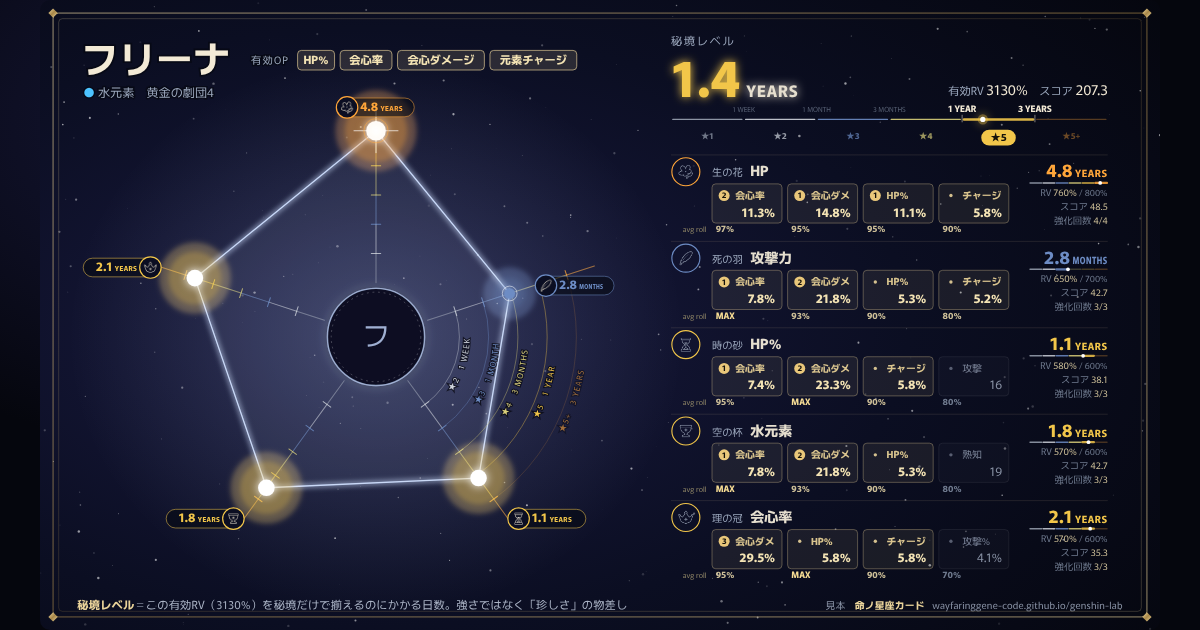
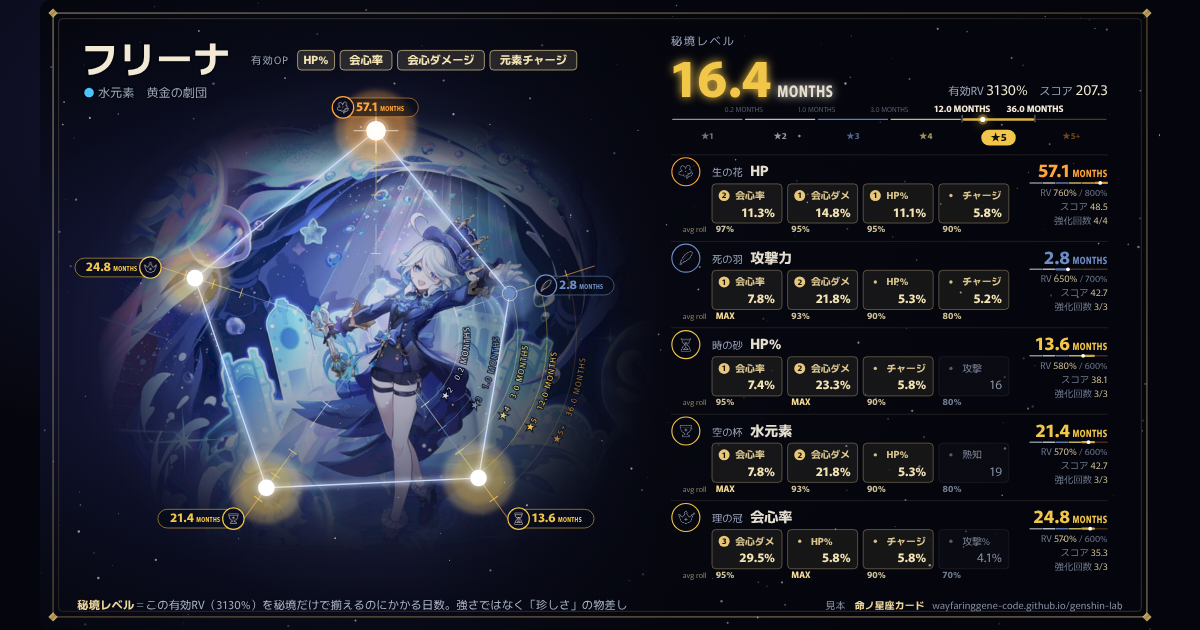
命ノ星座カード v2.3：聖遺物のページ・育成候補・アイコンと立ち絵・MONTHS 表記。OGP 画像を作り直し、次のスレッド（ダメージの見積もり）の手順を ROADMAP 2.8 に
Claude-Session: https://claude.ai/code/session_012GgQhebakg3C29ru6DxUEh

diff --git a/tools/build_card.py b/tools/build_card.py
@@ -375,7 +375,7 @@ function cardAppInit(){
     <div class="panel" style="margin-top:14px"><h2>保存した立ち絵</h2><p class="note" style="margin-bottom:8px">この端末（このブラウザ）にだけ保存されています。ほかの人には見えません。大きい画像は、長い辺1600pxに縮めて保存します（カードの見た目は変わりません）。</p><div id="cPortraits"></div></div>
     <div class="panel" style="margin-top:14px"><h2>カードの登場の演出</h2><label class="row" style="gap:8px;align-items:center"><input type="checkbox" id="cRevealOn">UIDで取り込んだあと、カードが机に落ちてくる演出を出す</label><p class="note" style="margin-top:6px">演出の途中で画面を押す（Enter・スペースでも）と次のカードへ進み、右上の「スキップ」で最後まで飛べます。</p></div>
     <div class="panel" style="margin-top:14px" id="cMoveHost"><h2>データの引っ越し</h2></div>
-    <div class="panel" style="margin-top:14px"><h2>このアプリについて</h2><p class="note">命ノ星座カード v2.3（試作）。計算は聖遺物厳選ラボと共通です。原神のキャラクター名・画像などの権利は HoYoverse に帰属します。UIDからの取り込みには Enka.Network のデータを、動画からの取り込みには聖遺物ビデオスキャナー（読み取りエンジン：Tesseract.js）を使っています。キャラのデータはこの端末（このブラウザ）に保存され、ラボ本体や別の端末とのやりとりは「データの引っ越し」のJSONで行います（ラボ本体で書き出したものもそのまま読めます）。HoYoverseとは関係のない非公式のファンツールです。</p></div>`;
+    <div class="panel" style="margin-top:14px"><h2>このアプリについて</h2><p class="note">命ノ星座カード v2.3。計算は聖遺物厳選ラボと共通です。原神のキャラクター名・画像などの権利は HoYoverse に帰属します。UIDからの取り込みには Enka.Network のデータを、動画からの取り込みには聖遺物ビデオスキャナー（読み取りエンジン：Tesseract.js）を使っています。キャラのデータはこの端末（このブラウザ）に保存され、ラボ本体や別の端末とのやりとりは「データの引っ越し」のJSONで行います（ラボ本体で書き出したものもそのまま読めます）。HoYoverseとは関係のない非公式のファンツールです。</p></div>`;
   const mh=$('cMoveHost'); [...(det||mv).childNodes].forEach(n=>mh.appendChild(n)); mv.remove();
   { const cb=$('cRevealOn'); cb.checked=!store.get('revealOff',0); cb.addEventListener('change',()=>store.set('revealOff',cb.checked?0:1)); }
   // ドラッグで取り込み（どのページでも）

diff --git a/docs/ROADMAP.md b/docs/ROADMAP.md
@@ -52,7 +52,7 @@
 - キャラの編集とスクショの取り込みの確認では、セットを選ぶ（なし／4セット／2セット＋2セット／2セットだけ）
 - まだのこと：スクショからセット名を自動で読む（いまは選ぶ）。旅人は元素ごとに別のキャラとして数える（いまは名前だけで見分けている）
 
-## 2.6 スマホで見やすい2種類目のカード（次のスレッドの本題）
+## 2.6 スマホで見やすい2種類目のカード（後回し中。次の次のスレッドで「カードのデザイン、特に五角形のグラフの見直し」とあわせて考える）
 
 2026-10-30、スマホで何度か使ってみての気づき：小さい画面だと、どこを見ればいいかが定まらない。
 既存のビルドカード（各部位がS以上か、合計スコアが200以上か）は、見る場所と合格ラインが決まっているので一目で分かる。
@@ -114,7 +114,7 @@
 - 思想（何を一目で伝えるか、合格ラインは何か）を先に言葉で決める → スマホの幅で、見た目の試作を2〜3案作って見比べる → 仕上げ（演出・ショーケース・保存・共有にも、2種類目のカードを通す）
 - 試作は、見本のキャラ（`#reveal` の操作盤と同じ作り方）か、自分のUIDで見られるようにする
 
-## 2.7 聖遺物一覧と育成候補（相談中。2026-11-12）
+## 2.7 聖遺物一覧と育成候補（v2.3 で公開。2026-11-13）
 - 動画で読んだ聖遺物のうち、いまは装備中の分しか使っていない（`src/scanner/core.js` の `toLab`）。装備していない分を「手持ち」として別に保存し、聖遺物一覧のタブと、キャラ一覧の棒を押したときの育成候補に使う
 - 手持ちは動画でしか作れない（UID・スクショでは手に入らない）。GOOD 形式には1個ごとのIDがないので、動画を読むたびにまるごと入れ替える。日付を出し、キャラのほうが新しければ知らせる
 - 決めたこと：手持ちはまるごと入れ替え／棒を押すと候補、札を押すとカード／ほかのキャラが装備中の1個も候補に入れる（「◯◯が装備中」。相手が下がる分も出す）／4+1も候補に入れる
@@ -139,6 +139,36 @@
   - 宿題：聖遺物のページ（素質＝秘境何日分の順）と、キャラ一覧から開く育成候補（有効RVの平均の伸びの順）で、並びのものさしが違う。あとでアプリを分けるか、完成したページの方式にそろえる
   - キャラの札の吹き出し（マウスを載せたとき）：部位の秘境レベルとスコアを「いま／+20で平均／+20で最大」の表で出す。最大は、秘境レベルは残りの強化がすべて有効OPに最大の伸びで入ったとき、スコアはすべてスコアにいちばん効く行に最大の伸びで入ったとき（別々に計算）。スマホでは吹き出しは出ず、札を押して開く育成候補の画面に同じ情報を出す
 - 進め方：初期値の表を整える（29人を見直し済み） → 試作専用の artifact（本番と保存場所が別）で触って確かめる → main に入れて公開
+
+- 公開したあとに残っている宿題：
+  - 遊ぶ人が自分の端末で「使えるセット」を足したり外したりできる調整弁（基本は初期値の表で足りる想定）
+  - 並びのものさしをそろえる（聖遺物のページ＝素質、育成候補＝有効RVの平均の伸び）
+  - 動画の読み取りから手持ちが入る流れを、本物の動画で通しで試す（試作は GOOD ファイルでしか試していない）
+  - ランクの名前（★3問題）：今はバッジで見せ方だけ変えた。名前を変えるなら 2.6 の前に（案：星の等級、英字の等級、事実で言う、金属）
+  - サンドローネ・Somnia・旅人のアイコンと立ち絵がない（Enka にまだない）
+
+## 2.8 ダメージの見積もり（次のスレッドの本題）
+v2.3 でフリンズだけの試作を入れた（2.7 の「ダメージの見積もり」）。これを広げて、聖遺物のページで「この1個に替えたら、ダメージが何%変わるか」を主なキャラで出せるようにする。
+
+### 考え方（決めたこと）
+- ダメージの値そのものは求めない。2つの装備のダメージの比だけを出す。天賦倍率・敵の耐性と防御・反応の係数（月感電の×3など）は、比べると消える（天賦レベルが関係ないことも検証済み）
+- キャラごとに「基準の技」を1つ決め、その技のダメージに、ステータス（会心率・会心ダメージ・攻撃力%・熟知など）がどう効くかだけを式にする
+- 条件は「Lv90・無凸・モチーフ武器R1・バフは最低限」。大きくバランスを変えるバフ（ベネットの元素爆発など）は、オン・オフで切り替える
+- +20までの伸び方は、強化が4行に入る回数の組み合わせごとに数える（会心率100%の上限などの折れ曲がりがあるので、平均の伸びを足すだけの見積もりは使わない）
+- 重み（サブOP 1回分でダメージが何%増えるか）は、説明用に見せる。装備で変わるので、固定の重みでは判定しない
+
+### 進め方
+1. キャラを選ぶ（持ち主の推しから。例：マーヴィカの溶解、ヌヴィレット、そのほか月反応のキャラ）。キャラごとに基準の技を持ち主と決める
+2. 数字をそろえる：`npm pack genshin-db`（5.2.15 で確認。キャラ・武器のLv90の値、天賦の倍率、聖遺物セットの効果が入っている）。展開して Python（`-I`）で読む
+3. 式を照らし合わせる：gcsim（github.com/genshinsim/gcsim）を `git clone --depth 1 --filter=blob:none --sparse` で取り、`internal/characters/<キャラ>`・`pkg/enemy/damage.go`・武器と聖遺物の実装を読む。式とバフの条件（どの攻撃の種類に乗るか）を確かめる
+4. まず文字で：持ち主の手持ち（GOOD ファイル）で「バフなし／あり」の重みの表を出し、持ち主の感覚と合うかを話す
+5. `tools/build_card.py` の `DMG_MODELS` にキャラを足す（今のフリンズの書き方にそろえる）。武器やセットが違うキャラ・増幅反応（溶解・蒸発）が要るキャラは、式の形を広げる
+6. 試作の artifact で触ってもらい、よければ main に入れる
+
+### 作業環境のメモ（Claude 向け）
+- 作業環境「genshin-lab」：enka.network への接続を許可済み（アイコン・立ち絵の取り込み用）。npm と GitHub（git clone・raw.githubusercontent.com）にもつながる。wiki（fandom・hoyolab・keqingmains）のページは開けない（調べものは WebSearch か、要るなら許可を足す）
+- 持ち主の手持ち（GOOD ファイル）はリポジトリに入れない（公開リポジトリのため）。新しいスレッドで、持ち主に渡してもらう
+- 試作の artifact（自分だけが見られる版）：https://claude.ai/artifact/MttoqVoit8ckTYS69tmsJM 。`python3 tools/build_card.py src/lab.html <出力>` で組み立て、`<title>` を「命ノ星座カード 試作版」にして同じ URL に公開し直す（アイコンは icons/ を一緒に公開。同梱の立ち絵は GitHub Pages でしか出ない）
 
 ## 3. 縦長の動画（Shorts・X 用）の書き出し
 
